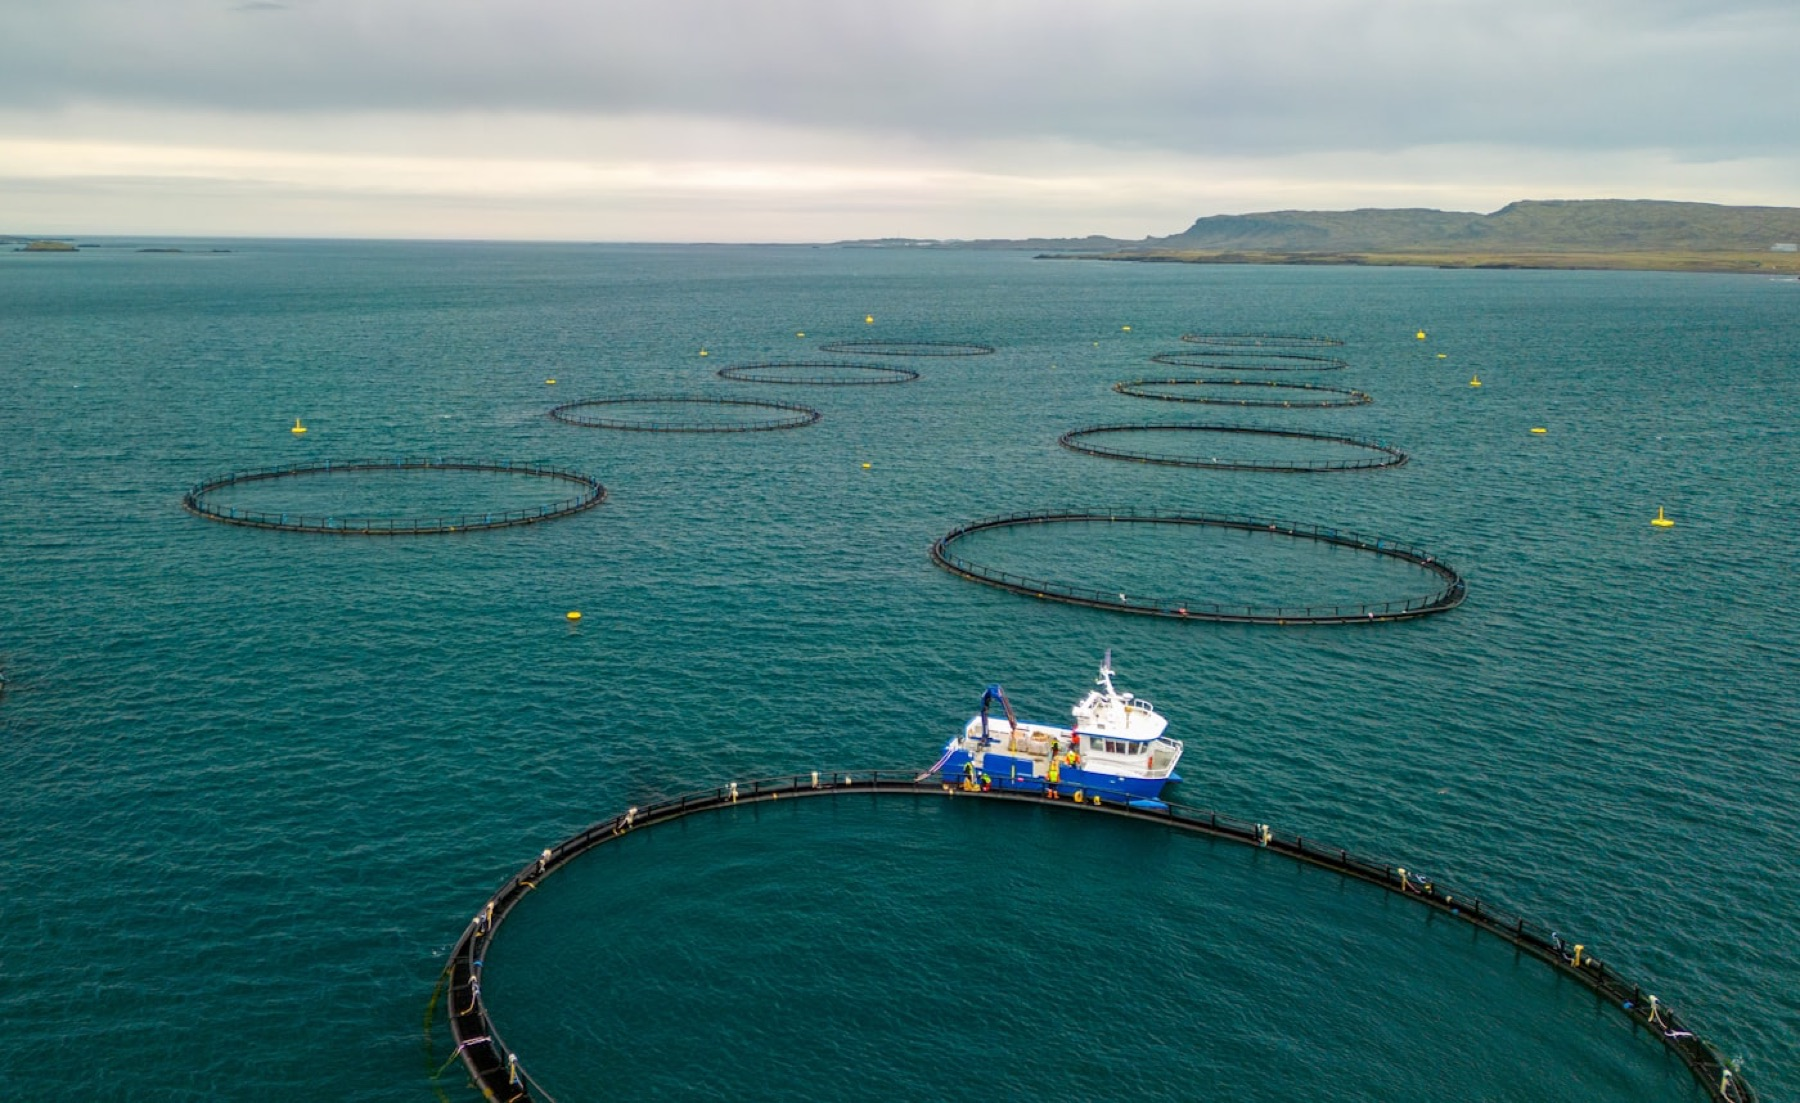
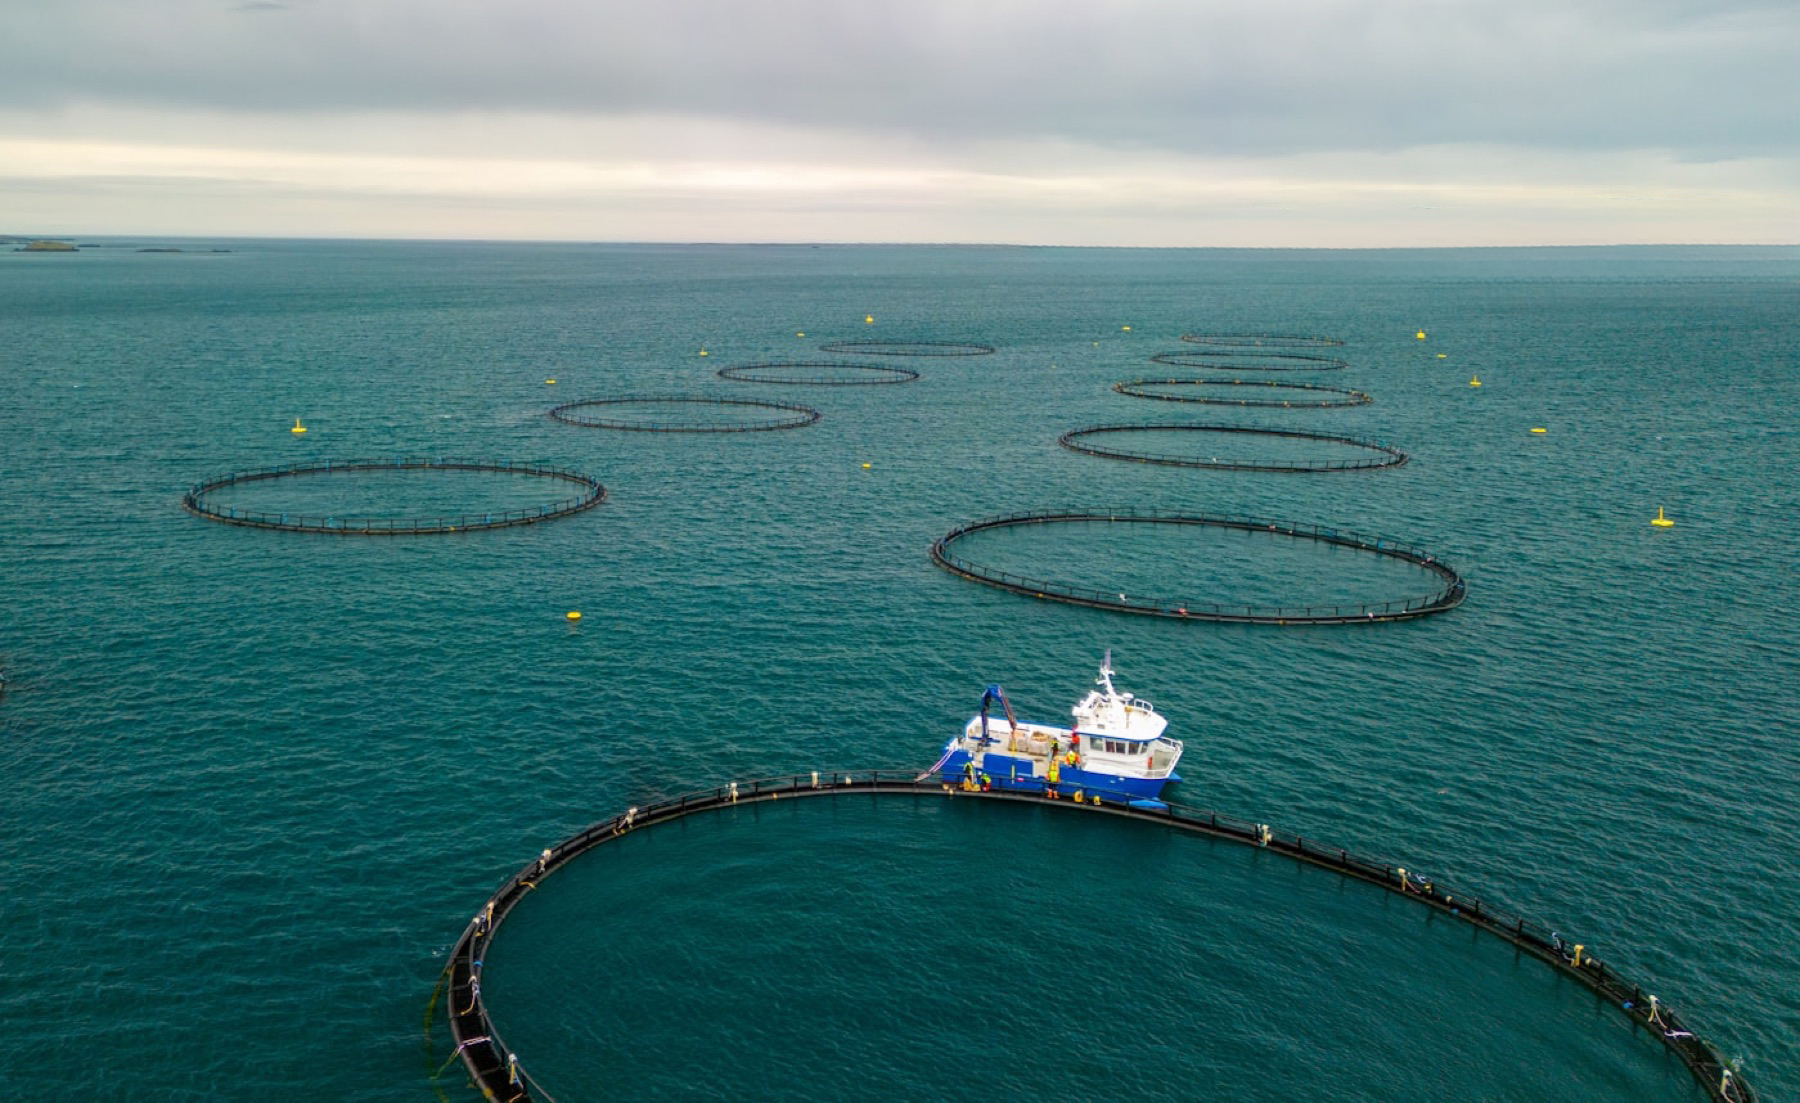
Hero: visible ray drift + realistic glassy bubbles
- Rays: sway amplitude ~3x bigger + slow side-to-side apex sweep, so the
  light shafts visibly drift (were moving too subtly to notice)
- Bubbles: soft glassy spheres with an upper-left sheen (light from the
  surface) and whisper-thin rim, replacing the crisp cartoon ring; same
  rising motion kept

Changed region(s): [[0.4667, 0.1541, 1.0, 0.2774]]

diff --git a/js/main.js b/js/main.js
@@ -150,8 +150,8 @@
       w: 0.014 + Math.random() * 0.022,        // half-width — tighter, crisper shafts
       len: H * (1.15 + Math.random() * 0.4),   // reaches well down into the deep
       ph: Math.random() * Math.PI * 2,
-      sp: 0.004 + Math.random() * 0.004,       // slow sway speed (per frame)
-      amp: 0.03 + Math.random() * 0.05,        // sway amplitude (rad)
+      sp: 0.005 + Math.random() * 0.004,       // slow sway speed (per frame)
+      amp: 0.09 + Math.random() * 0.08,        // sway amplitude (rad) — visible drift
       a: 0.20 + Math.random() * 0.15,          // base brightness (more pronounced)
       c: i % 4 === 1 ? "22,164,176" : "42,185,198",   // all-blue shafts (two blue tones)
     }));
@@ -180,7 +180,8 @@
     // god-ray shafts — soft volumetric light drifting down through the water
     ctx.save();
     ctx.filter = "blur(11px)";
-    const ax = W * 0.5 + par.x * 0.4;  // apex, above the top edge, drifts with pointer
+    // apex slowly sweeps side to side (light source shifting through the surface)
+    const ax = W * 0.5 + Math.sin(t * 0.0016) * W * 0.06 + par.x * 0.4;
     const ay = -H * 0.12;
     for (const b of beams) {
       const ang = b.base + Math.sin(t * b.sp + b.ph) * b.amp;
@@ -214,7 +215,7 @@
       ctx.beginPath(); ctx.arc(ox, oy, o.r, 0, Math.PI * 2); ctx.fill();
     }
 
-    // rising bubbles — soft, faint, out-of-focus (no hard outline / no bright dot)
+    // rising bubbles — soft glassy spheres catching ambient light from above
     ctx.globalCompositeOperation = "screen";
     ctx.shadowBlur = 0;
     for (const p of motes) {
@@ -223,13 +224,16 @@
       if (p.y < -14) { p.y = H + 14; p.x = Math.random() * W; }
       const px = p.x + Math.sin(p.wob) * p.sway + par.x * p.depth;
       const py = p.y + par.y * p.depth;
+      const a = p.a * 0.8;
 
-      // soft radial body: transparent core, gentle diffuse rim, feathered edge
-      const g = ctx.createRadialGradient(px, py, 0, px, py, p.r);
-      g.addColorStop(0,    `rgba(${p.c},0)`);
-      g.addColorStop(0.55, `rgba(${p.c},${p.a * 0.05})`);
-      g.addColorStop(0.82, `rgba(${p.c},${p.a * 0.30})`);   // faint blurred rim
-      g.addColorStop(0.94, `rgba(${p.c},${p.a * 0.14})`);
+      // sheen offset toward upper-left (light comes from the surface)
+      const g = ctx.createRadialGradient(
+        px - p.r * 0.32, py - p.r * 0.4, p.r * 0.05,
+        px, py, p.r * 1.06
+      );
+      g.addColorStop(0,    `rgba(${p.c},${a * 0.34})`);   // soft glassy sheen
+      g.addColorStop(0.45, `rgba(${p.c},${a * 0.07})`);
+      g.addColorStop(0.9,  `rgba(${p.c},${a * 0.16})`);   // whisper-thin soft rim
       g.addColorStop(1,    `rgba(${p.c},0)`);
       ctx.fillStyle = g;
       ctx.beginPath();